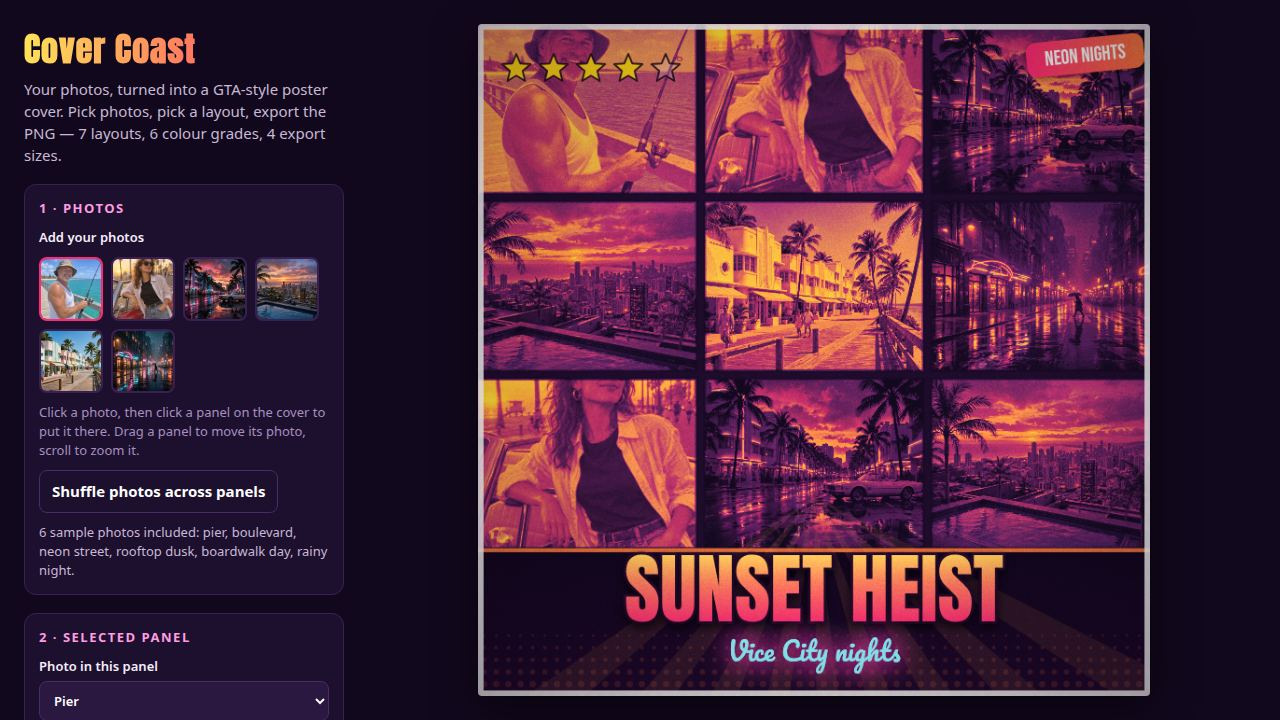
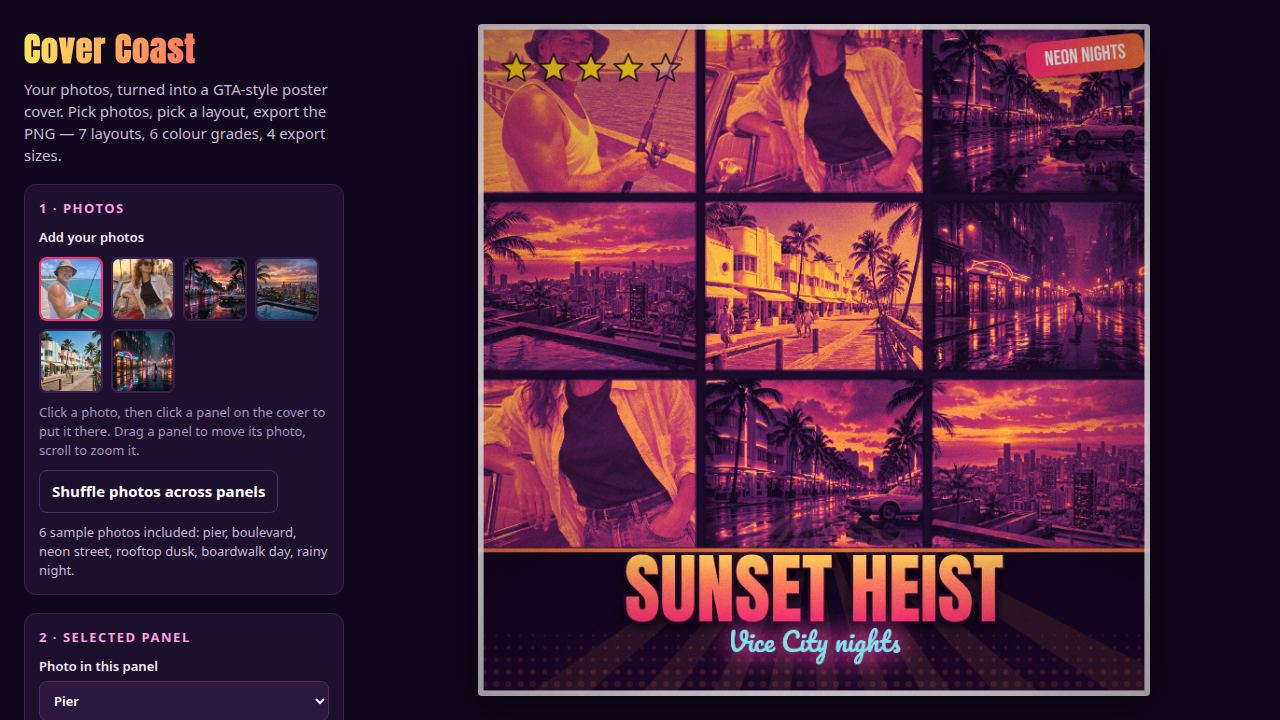
Polish v2 from visual review: repeat-slot close-up crops, subtitle under wrapped titles
- Repeated photos in the nine-panel grids now get a tight 1.32-1.42x
  opposite-side crop, so a repeat reads as a different framing
- Fixed a real bug found in review: with a wrapped two-line title the
  subtitle overlapped the second line; drawTitle now returns the title
  block's bottom edge and drawSubtitle sits below it (verified with a
  43-char title in the narrow hero3 box)
- Screenshots re-taken after the fix

Changed region(s): [[0.375, 0.5194, 0.9062, 0.7639], [0.5625, 0.8556, 0.7188, 0.9472]]

diff --git a/app/src/lettering.js b/app/src/lettering.js
@@ -5,8 +5,8 @@
 // v2: the title now wraps. A long title that would shrink below 34% of its
 // starting size splits into two balanced lines at a space instead of going
 // tiny — so a two-word cover name stays poster-big in the title band.
-// drawTitle returns { px, height } (the drawn block's size) instead of a bare
-// pixel size, and drawSubtitle positions itself from that block.
+// drawTitle returns { px, height, bottom } (the drawn block's size and its
+// bottom edge), and drawSubtitle positions itself from that block.
 
 function fitFont(ctx, text, maxW, startPx, family, weight = '') {
   let px = startPx;
@@ -49,11 +49,12 @@ function paintLine(ctx, line, x, y, px, grad, align) {
 /**
  * Big title: sunset gradient fill, dark outline, hard drop shadow.
  * Wraps to two lines when one line would go too small. Returns
- * { px, height } — the font size used and the drawn block's height.
+ * { px, height, bottom } — the font size used, the drawn block's height,
+ * and the y of the block's bottom edge, so the subtitle can sit below it.
  */
 export function drawTitle(ctx, text, box, { align = 'center' } = {}) {
   const t = (text || '').trim().toUpperCase();
-  if (!t) return { px: 0, height: 0 };
+  if (!t) return { px: 0, height: 0, bottom: box.y };
   const maxPx = box.h * 0.52;
   const grad = ctx.createLinearGradient(0, box.y, 0, box.y + maxPx);
   grad.addColorStop(0, '#ffe259');
@@ -69,13 +70,13 @@ export function drawTitle(ctx, text, box, { align = 'center' } = {}) {
   if (onePx >= maxPx * 0.34) {
     paintLine(ctx, t, x, box.y + onePx * 0.95, onePx, grad, align);
     ctx.restore();
-    return { px: onePx, height: onePx };
+    return { px: onePx, height: onePx, bottom: box.y + onePx };
   }
   const lines = splitTitle(t);
   if (!lines) {
     paintLine(ctx, t, x, box.y + onePx * 0.95, onePx, grad, align);
     ctx.restore();
-    return { px: onePx, height: onePx };
+    return { px: onePx, height: onePx, bottom: box.y + onePx };
   }
   const linePx = Math.min(
     fitFont(ctx, lines[0], box.w, maxPx * 0.92, 'Anton, "Arial Narrow", sans-serif'),
@@ -88,17 +89,17 @@ export function drawTitle(ctx, text, box, { align = 'center' } = {}) {
   paintLine(ctx, lines[0], x, y0, linePx, grad, align);
   paintLine(ctx, lines[1], x, y0 + linePx + gap, linePx, grad, align);
   ctx.restore();
-  return { px: linePx, height: total };
+  return { px: linePx, height: total, bottom: box.y + (box.h + total) / 2 };
 }
 
 /**
  * Script subtitle with a neon glow, drawn under the title block.
- * `title` is the { px, height } drawTitle returned.
+ * `title` is the { px, height, bottom } drawTitle returned.
  */
 export function drawSubtitle(ctx, text, box, title, align = 'center') {
   const t = (text || '').trim();
   const titlePx = title?.px ?? 0;
-  const titleH = title?.height ?? titlePx;
+  const titleBottom = title?.bottom ?? box.y + (title?.height ?? titlePx);
   if (!t || !titlePx) return 0;
   const px = fitFont(ctx, t, box.w * 0.9, Math.max(14, titlePx * 0.34), 'Pacifico, cursive');
   ctx.save();
@@ -109,11 +110,10 @@ export function drawSubtitle(ctx, text, box, title, align = 'center') {
   ctx.shadowBlur = px * 0.9;
   ctx.fillStyle = '#8ef6ff';
   const x = align === 'left' ? box.x : align === 'right' ? box.x + box.w : box.x + box.w / 2;
-  // Sit just under the title block, vertically centred in what is left of
-  // the band; a two-line title leaves less room, so the subtitle shrinks
-  // with the gap instead of colliding with the band's foot.
-  const top = box.y + titleH + (box.h - titleH) * 0.18;
-  const y = Math.min(top + px * 0.9, box.y + box.h - px * 0.15);
+  // Sit just under the title block's real bottom edge (a wrapped two-line
+  // title is vertically centred, so its bottom is well below box.y + px);
+  // never run past the band's foot.
+  const y = Math.min(titleBottom + px * 1.05, box.y + box.h - px * 0.2);
   ctx.fillText(t, x, y);
   ctx.fillText(t, x, y); // second pass strengthens the glow
   ctx.restore();

diff --git a/main.ts b/main.ts
@@ -9,8 +9,10 @@
 // sunset-gradient Anton title lettering that wraps to two lines instead of shrinking, neon Pacifico subtitle, ribbon badge
 // and five-star heat meter, deterministic grain, sunburst and vignette, per-panel crop and zoom, shuffle, undo/redo, and PNG
 // export at 1080x1080, 1080x1350, 1920x1080 and 1080x1920, named after the cover title. Fonts are OFL files under app/fonts/;
-// the six sample photos (app/samples/) are free to use. Build your own GTA-style cover maker in its place, put your 3 or 4
-// PNG or JPEG screenshots in screenshots/ (the first by name is the cover — here the 1920x1080 nine-panel cover) and run it.
+// the six sample photos (app/samples/) are free to use, and the nine-panel grids give the three photos that must repeat
+// a much tighter, opposite-side crop (see panels.js) so a repeat reads as a different framing. Build your own GTA-style
+// cover maker in its place, put your 3 or 4 PNG or JPEG screenshots in screenshots/ (the first by name is the cover — here
+// the 1920x1080 nine-panel cover) and run it.
 //
 // Serve it locally with `node serve.ts`, then open http://localhost:8080.
 // Outside the grader's container, MAKEFUN_OUTPUT_DIR stands in for /output:

diff --git a/app/src/panels.js b/app/src/panels.js
@@ -14,10 +14,13 @@
 // Every row and every column holds three different photos.
 const GRID9_PATTERN_6 = [0, 1, 2, 3, 4, 5, 1, 2, 3];
 // A gentle zoom per slot (1.00–1.12) plus a small offset, so repeated photos
-// are framed differently in each of their slots.
-const SLOT_ZOOM = [1.0, 1.08, 1.0, 1.12, 1.05, 1.0, 1.1, 1.06, 1.0];
-const SLOT_OX = [0, 0.12, -0.1, 0, -0.12, 0.1, 0, -0.08, 0.12];
-const SLOT_OY = [0, -0.1, 0.12, 0, 0.1, -0.12, 0.08, 0, -0.1];
+// are framed differently in each of their slots — and slots 6–8, which repeat
+// photos 1–3 in the nine-panel grids, get a much tighter zoom (1.32–1.42)
+// with a hard offset to the opposite side, so the repeat reads as a close-up
+// of a different part of the photo, not the same picture twice.
+const SLOT_ZOOM = [1.0, 1.08, 1.0, 1.12, 1.05, 1.0, 1.38, 1.32, 1.42];
+const SLOT_OX = [0, 0.12, -0.1, 0, -0.12, 0.1, -0.35, 0.3, -0.3];
+const SLOT_OY = [0, -0.1, 0.12, 0, 0.1, -0.12, -0.3, 0.35, 0.3];
 
 export function defaultPanels(photoCount) {
   const n = Math.max(1, photoCount || 1);

diff --git a/app/src/cover.js b/app/src/cover.js
@@ -7,7 +7,8 @@
 // read as separate photos instead of one blended field, the title band gets a
 // faint sunburst behind the halftone, and the subtitle now positions itself
 // from the title's real drawn block (drawTitle returns { px, height }) so a
-// wrapped two-line title never collides with it.
+// wrapped two-line title never collides with it (drawTitle returns the
+// title block's bottom edge for the subtitle to sit under).
 
 import { layoutPanels } from './layouts.js';
 import { applyGrade } from './grades.js';
